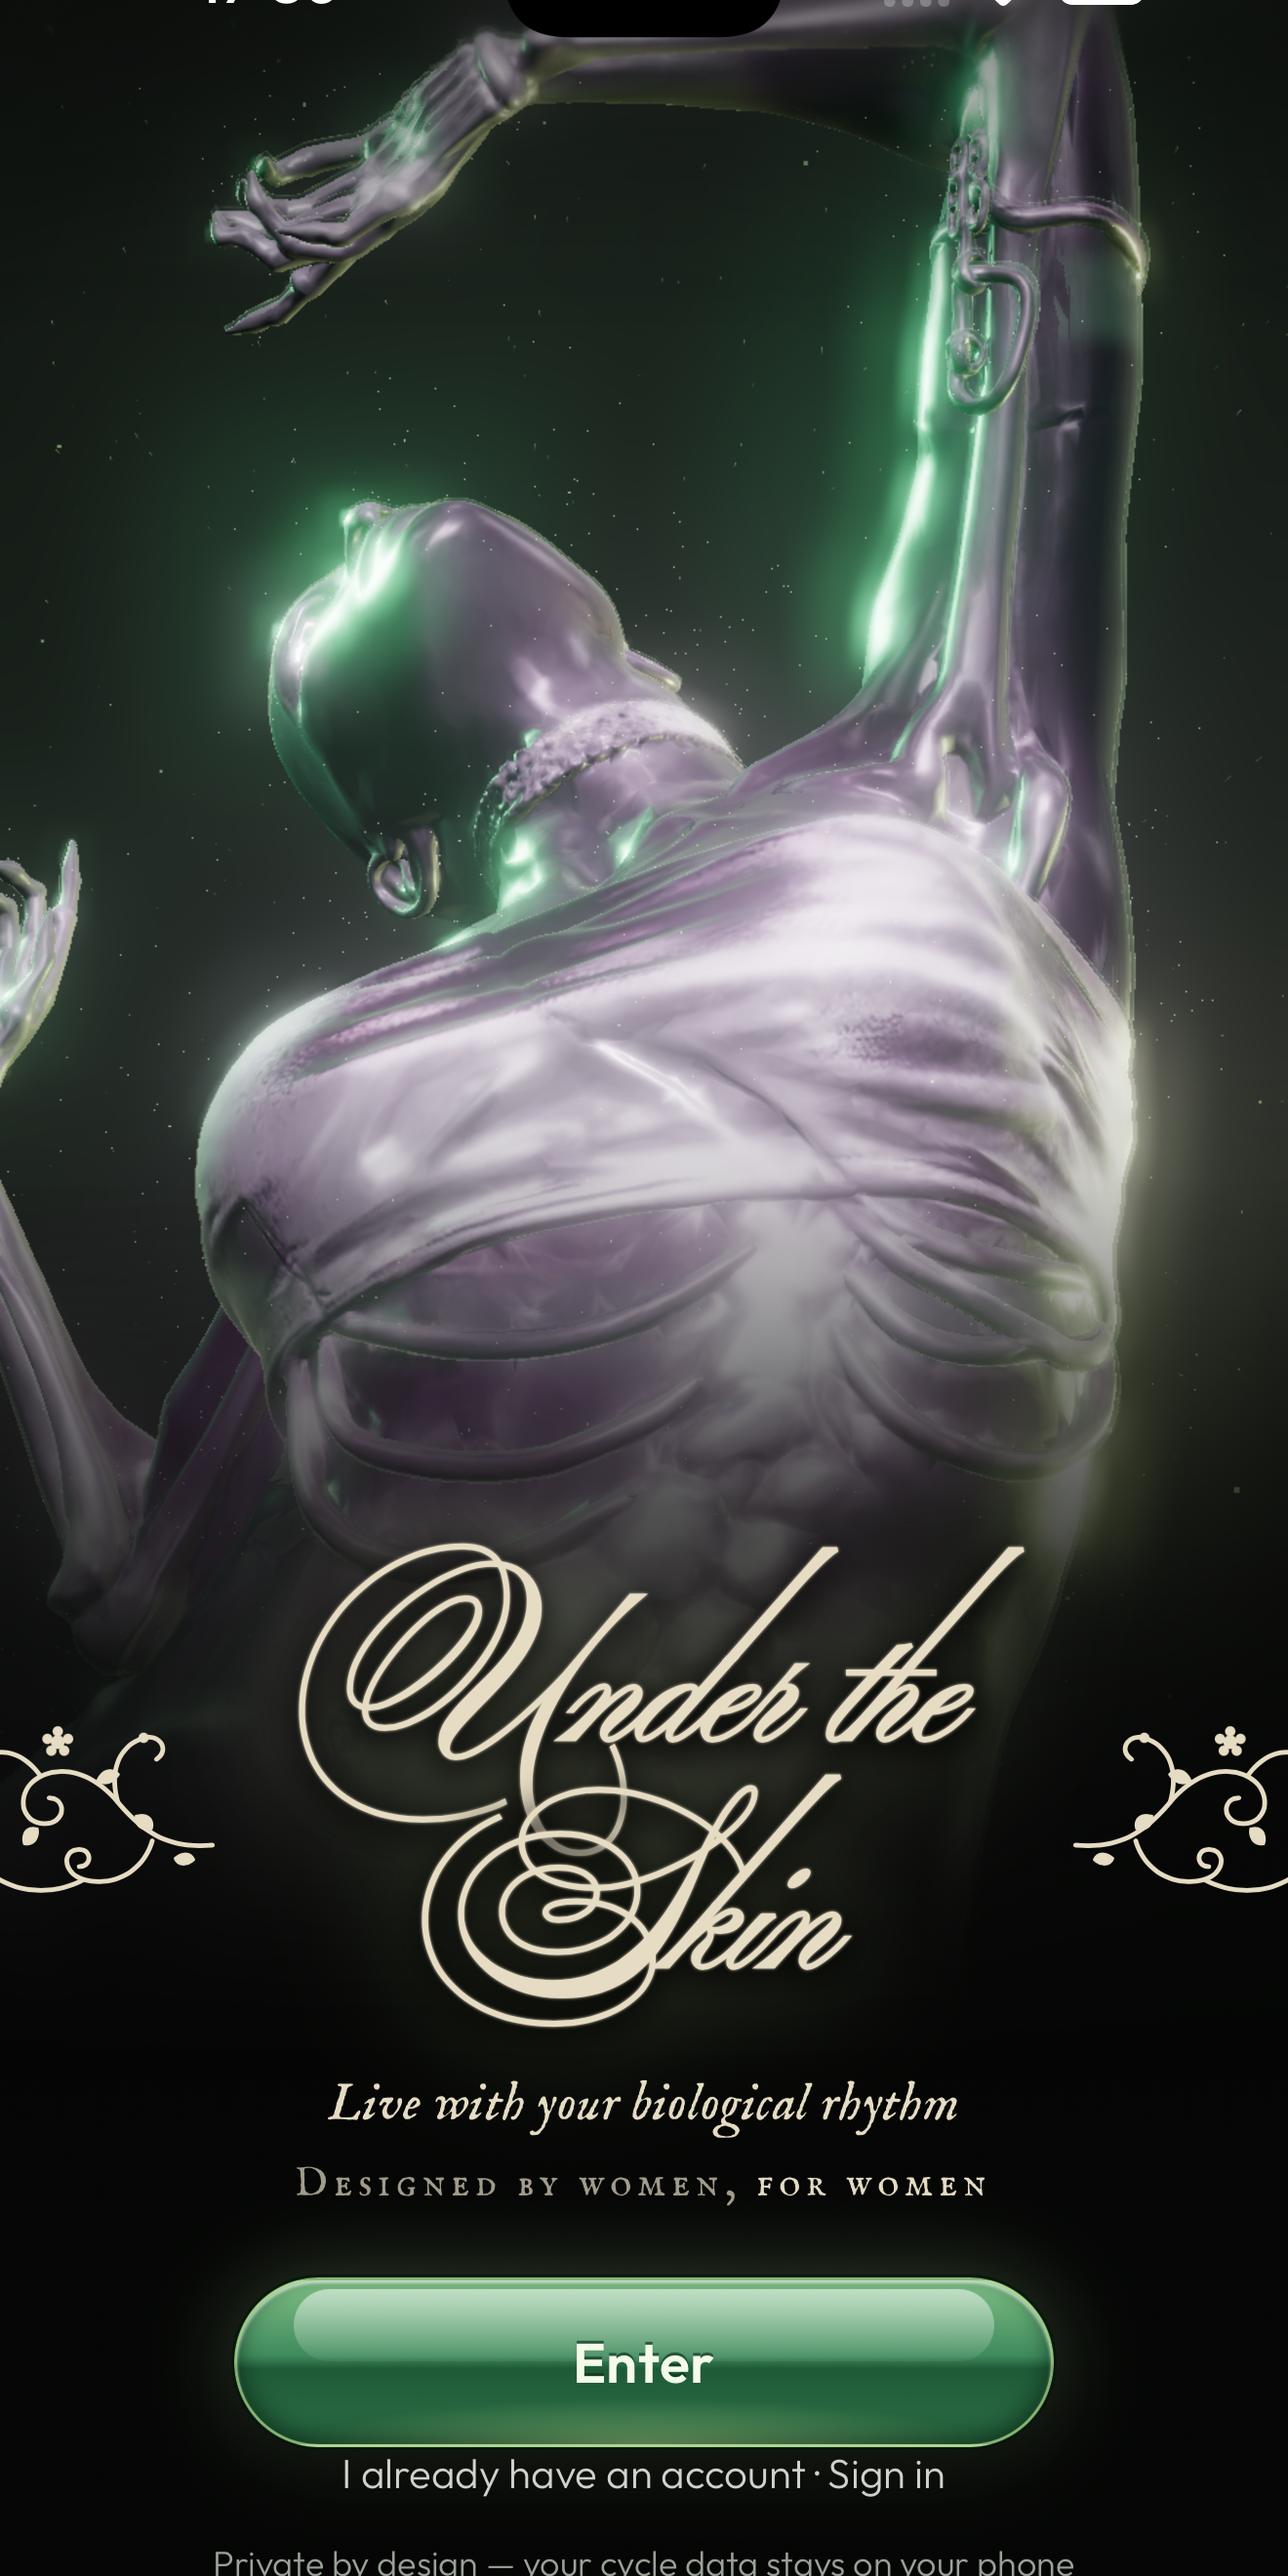
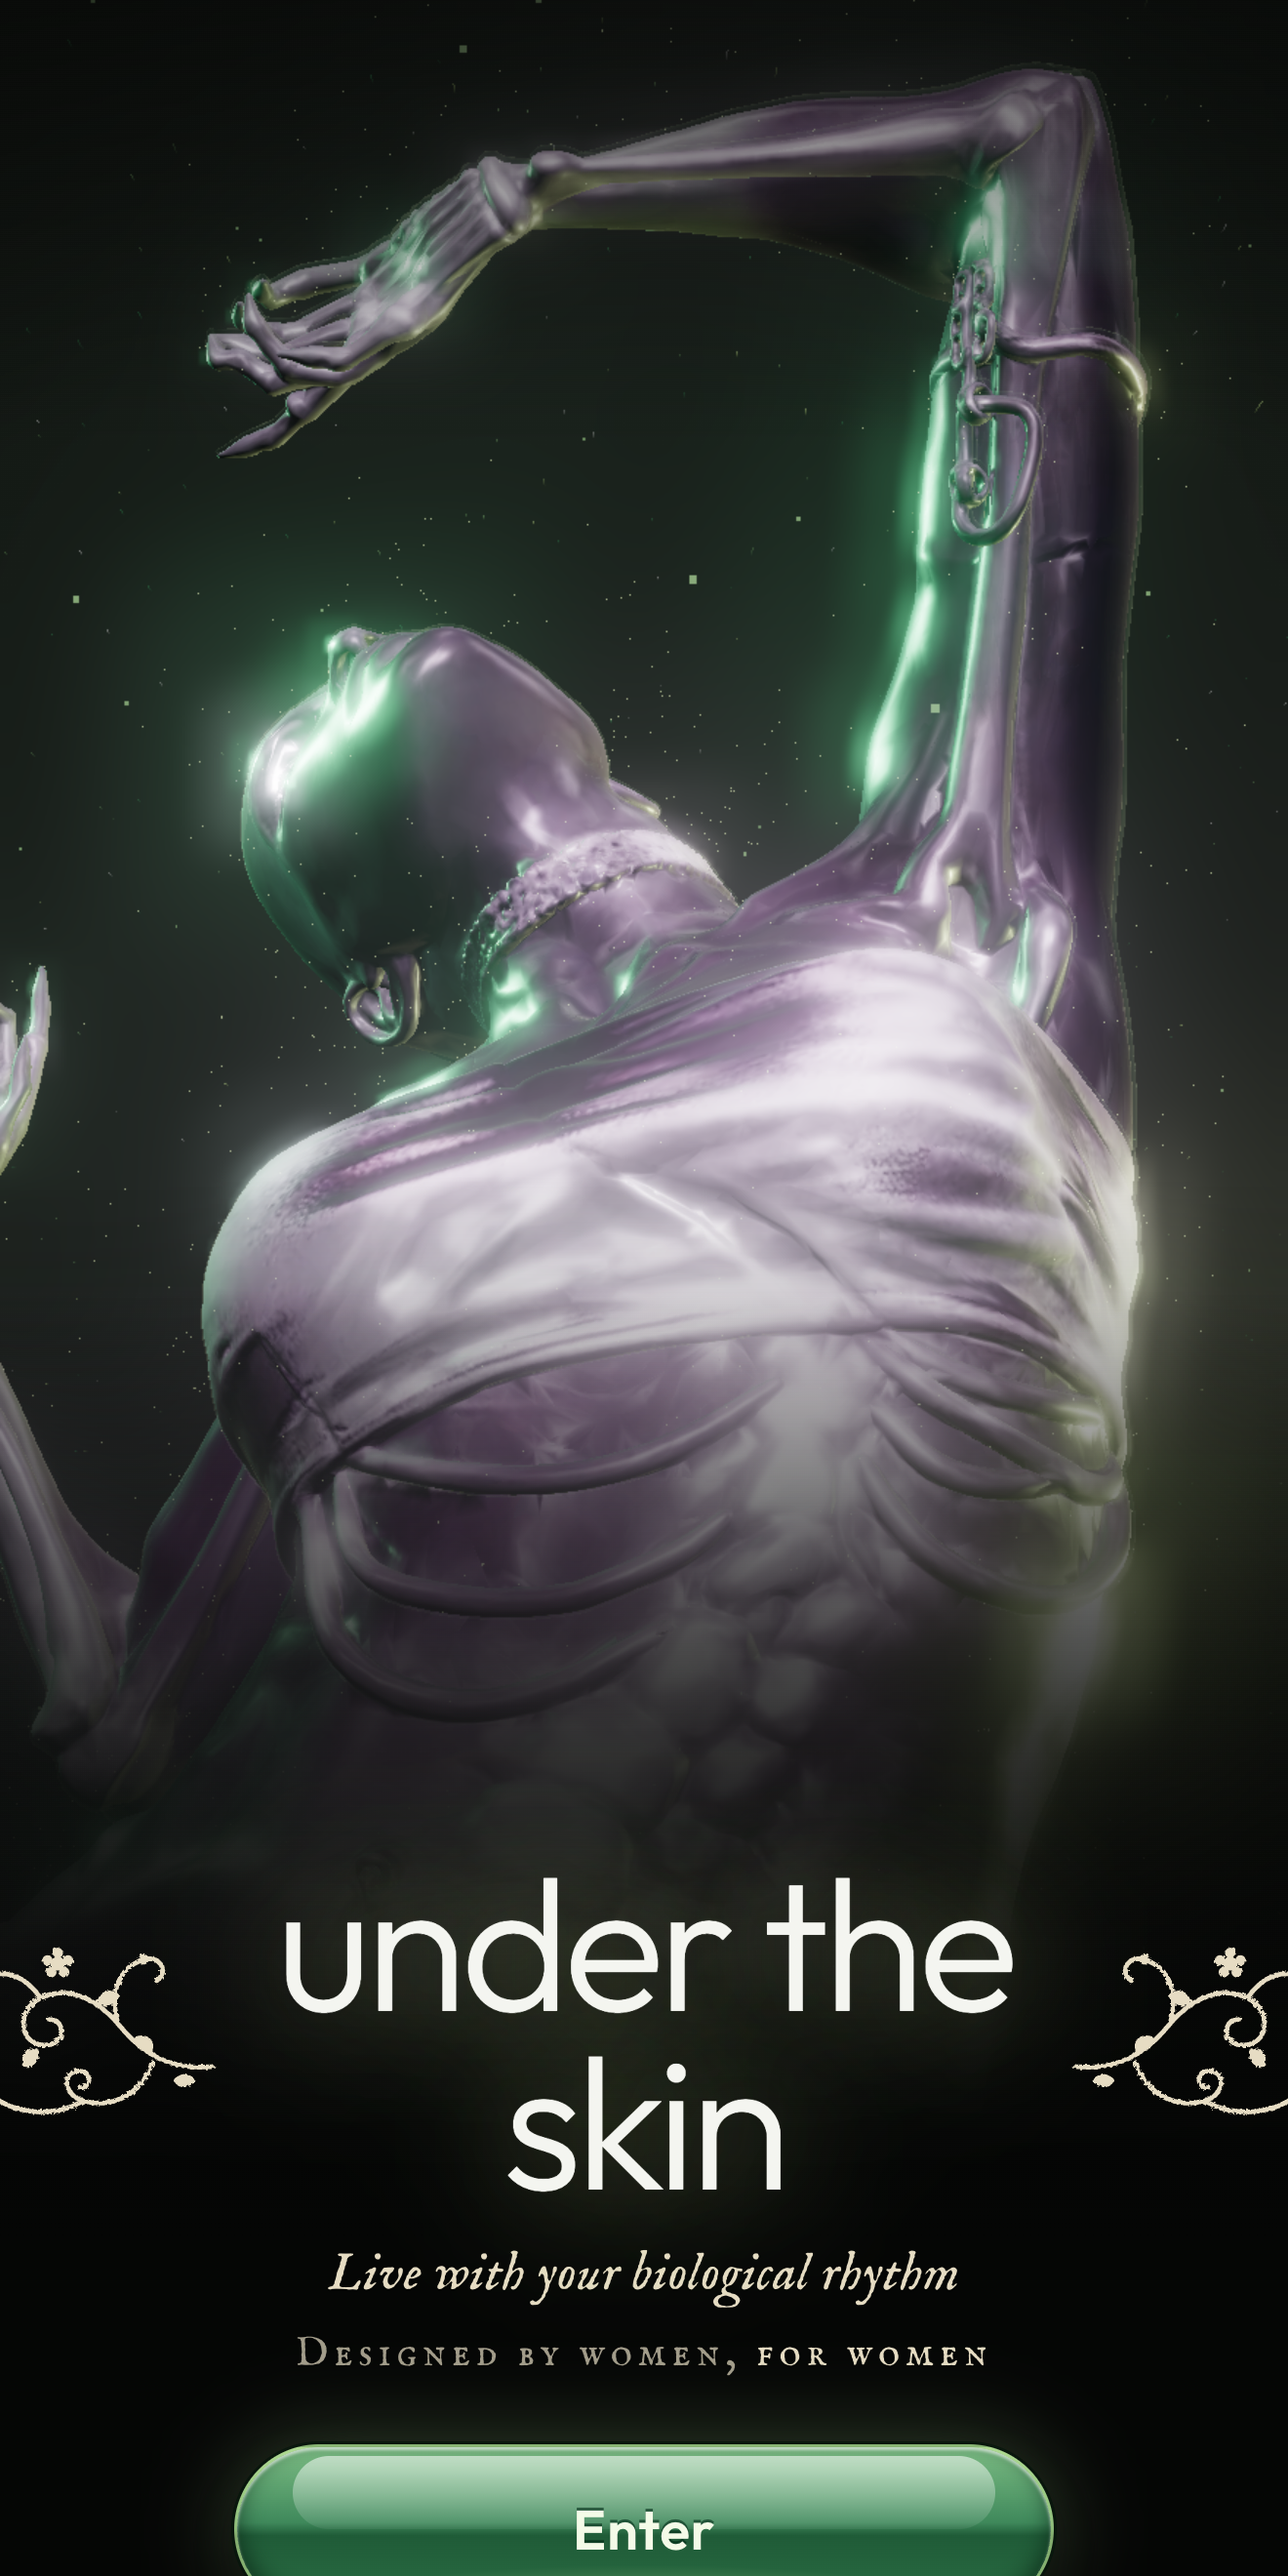
Keep the "Under the Skin" welcome title, new App Store screenshots of the current design

diff --git a/sw.js b/sw.js
@@ -1,5 +1,5 @@
 // Offline cache for the app shell. Bump VERSION when shipping changes.
-const VERSION = 'uts-v256';
+const VERSION = 'uts-v257';
 const SHELL = ['./', './index.html', './styles.css', './manifest.json', './icons/icon-192.png', './icons/icon-512.png', './icons/apple-touch-icon.png', './icons/icon-64.png', './icons/icon-32.png', './icons/icon-maskable-512.png',
   './js/app.js', './js/data.js', './js/cycle.js', './js/icons.js', './js/cosmic.js', './js/figure.js', './js/figure3d.js', './js/torso.js', './js/torso3d.js', './js/photos.js', './js/seasonal.js', './js/welcome3d.js', './js/sfx.js', './js/sun.js', './js/account.js', './js/config.js', './images/planet.jpg', './images/gate-vault.jpg', './images/flower-menstrual.webp', './images/flower-follicular.webp', './images/flower-ovulatory.webp', './images/flower-luteal.webp', './images/period.png', './images/partner-cinema.webp', './images/sun-moon.webp', './images/rhythm-sun.webp', './images/inner-clock.webp', './images/move-stardust.mp4', './images/move-stardust.webp', './images/move-meditate.webp', './images/move-walk.webp', './images/move-yoga.webp', './images/move-sport.webp', './images/move-pilates.webp', './images/move-hiit.webp', './images/move-lift.webp', './images/season-veg.webp', './images/season-fruit.webp', './images/stress-meditate.mp4', './images/stress-meditate.webp', './images/stress-breathe.mp4', './images/stress-breathe.webp', './images/cave-stone.webp', './images/tile-meditate.webp', './images/tile-walk.webp', './images/tile-yoga.webp', './images/tile-sport.webp', './images/tile-pilates.webp', './images/tile-hiit.webp', './images/tile-lift.webp', './images/purpose-body.jpg', './images/purpose-conceive.jpg', './images/period-food.webp', './models/body.glb'];
 

diff --git a/js/app.js b/js/app.js
@@ -556,7 +556,7 @@ function viewOnboarding() {
 <path d="M58 76 C44 84 26 82 16 74"/></g>
 <g fill="currentColor"><path d="M82 46 c6 -2 10 2 8 7 c-5 1 -9 -2 -8 -7z"/><path d="M64 30 c2 -6 8 -7 11 -3 c-3 5 -8 6 -11 3z"/><path d="M30 60 c-2 -6 2 -10 7 -8 c1 5 -2 9 -7 8z"/>
 <path d="M100 66 c4 -4 9 -3 10 1 c-4 4 -9 3 -10 -1z"/><circle cx="86" cy="10" r="2.4"/><circle cx="10" cy="20" r="2"/><circle cx="16" cy="74" r="2.2"/>
-<g transform="translate(46 12)"><circle r="3.2"/><circle cx="0" cy="-5" r="2.4"/><circle cx="4.8" cy="-1.5" r="2.4"/><circle cx="3" cy="4" r="2.4"/><circle cx="-3" cy="4" r="2.4"/><circle cx="-4.8" cy="-1.5" r="2.4"/></g></g></svg></span><h1 class="bw-script"><span class="bw-ink">Underskin</span></h1><span class="orn-r"><svg class="orn" viewBox="0 0 120 90" aria-hidden="true"><g fill="none" stroke="currentColor" stroke-width="1.6" stroke-linecap="round">
+<g transform="translate(46 12)"><circle r="3.2"/><circle cx="0" cy="-5" r="2.4"/><circle cx="4.8" cy="-1.5" r="2.4"/><circle cx="3" cy="4" r="2.4"/><circle cx="-3" cy="4" r="2.4"/><circle cx="-4.8" cy="-1.5" r="2.4"/></g></g></svg></span><h1 class="bw-script"><span class="bw-ink">Under the Skin</span></h1><span class="orn-r"><svg class="orn" viewBox="0 0 120 90" aria-hidden="true"><g fill="none" stroke="currentColor" stroke-width="1.6" stroke-linecap="round">
 <path d="M118 60 C96 62 84 52 74 40 C64 28 50 22 38 28 C26 34 28 50 40 50 C50 50 50 38 42 38"/>
 <path d="M90 58 C86 72 72 80 58 76 C48 73 48 62 56 62 C62 62 62 70 56 70" />
 <path d="M74 40 C70 26 74 14 86 10 C94 8 98 16 92 20"/>

diff --git a/js/torso3d.js b/js/torso3d.js
@@ -108,7 +108,7 @@ function textTexture() {
   const draw = () => {
     g.fillStyle = '#ffffff'; g.fillRect(0, 0, 1024, 2048);
     g.fillStyle = '#0d1a12'; g.textAlign = 'center'; g.textBaseline = 'middle';
-    const blocks = [['underskin.', 'HORMONES · CYCLE · RITUAL'], ['水  木  火  土', 'FOUR INNER SEASONS']];
+    const blocks = [['under the skin.', 'HORMONES · CYCLE · RITUAL'], ['水  木  火  土', 'FOUR INNER SEASONS']];
     blocks.forEach(([a, b], i) => {
       const cy = 380 + i * 1024;
       g.font = '300 74px Outfit, sans-serif'; g.fillText(a, 512, cy);

diff --git a/styles.css b/styles.css
@@ -3328,5 +3328,3 @@ button.hub-rh:active .hub-mg { transform: scale(.94); }
 .pfood2 .pf-bot { right: 16px; bottom: 16px; text-align: right; max-width: 72%; }
 .pfood2 .pf-mid { left: 0; right: 0; top: 50%; transform: translateY(-50%); text-align: center; font-size: clamp(26px, 9vw, 40px); font-weight: 300; letter-spacing: -.01em; }
 
-/* one-word "underskin": a little more air before the ornaments */
-.orn-l, .orn-r { width: 70px !important; margin: 0 -4px !important; }

diff --git a/js/torso.js b/js/torso.js
@@ -3,10 +3,10 @@
 // Fully procedural — no photo assets.
 
 const MARKS = [
-  { a: 'underskin.', b: 'HORMONES · CYCLE · RITUAL' },
+  { a: 'under the skin.', b: 'HORMONES · CYCLE · RITUAL' },
   { a: 'XX — 2026', b: 'LIVE IN SYNC' },
   { a: '水 木 火 土', b: 'FOUR INNER SEASONS' },
-  { a: 'underskin.', b: 'YOUR BODY, DECODED' },
+  { a: 'under the skin.', b: 'YOUR BODY, DECODED' },
   { a: '♀ · ☾ · ✦', b: 'BODY · MOON · STARS' },
 ];
 

diff --git a/store/STORE_LISTING.md b/store/STORE_LISTING.md
@@ -3,7 +3,7 @@
 Copy-paste text for App Store Connect and Google Play Console. Every field is within the store's limit.
 
 ## Screenshots (ready)
-- **iPhone 6.9"** (1320 × 2868): `store/ios-6.9/` (5 images, upload in this order)
+- **iPhone 6.9"** (1320 × 2868): `store/ios-6.9/` (6 images, upload in this order). App Store Connect slot "iPhone with Dynamic Island (medium)": `store/ios-6.3/` (1206 × 2622 JPG, uploaded)
 - **Android phone** (1320 × 2640): `store/android-phone/` (same 5 images, cropped to Google's 2:1 maximum)
 - **Google feature graphic** (1024 × 500): `store/feature-graphic-1024x500.png` (source: `store/source/feature-graphic.html`)
 - **Google app icon** (512 × 512): `icons/icon-512.png`
